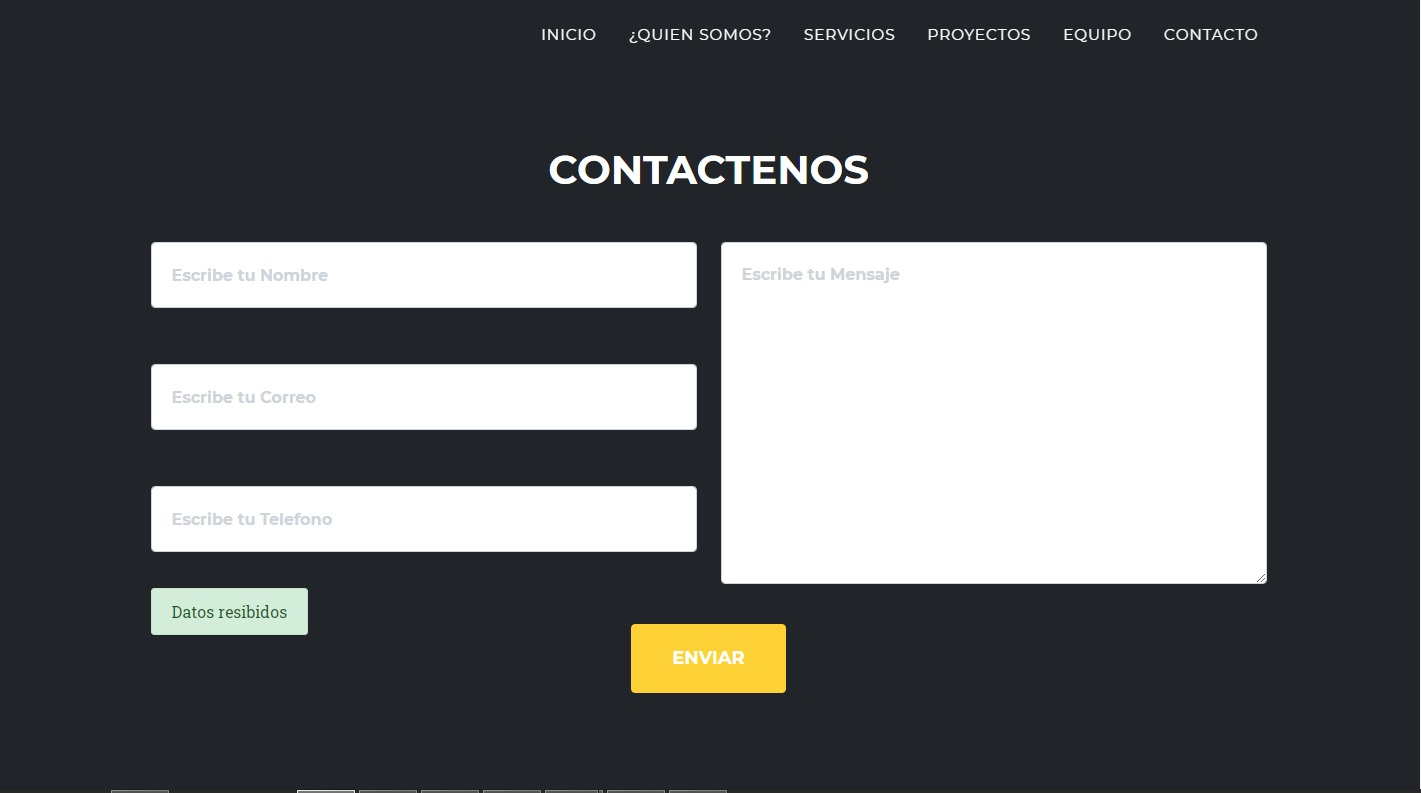
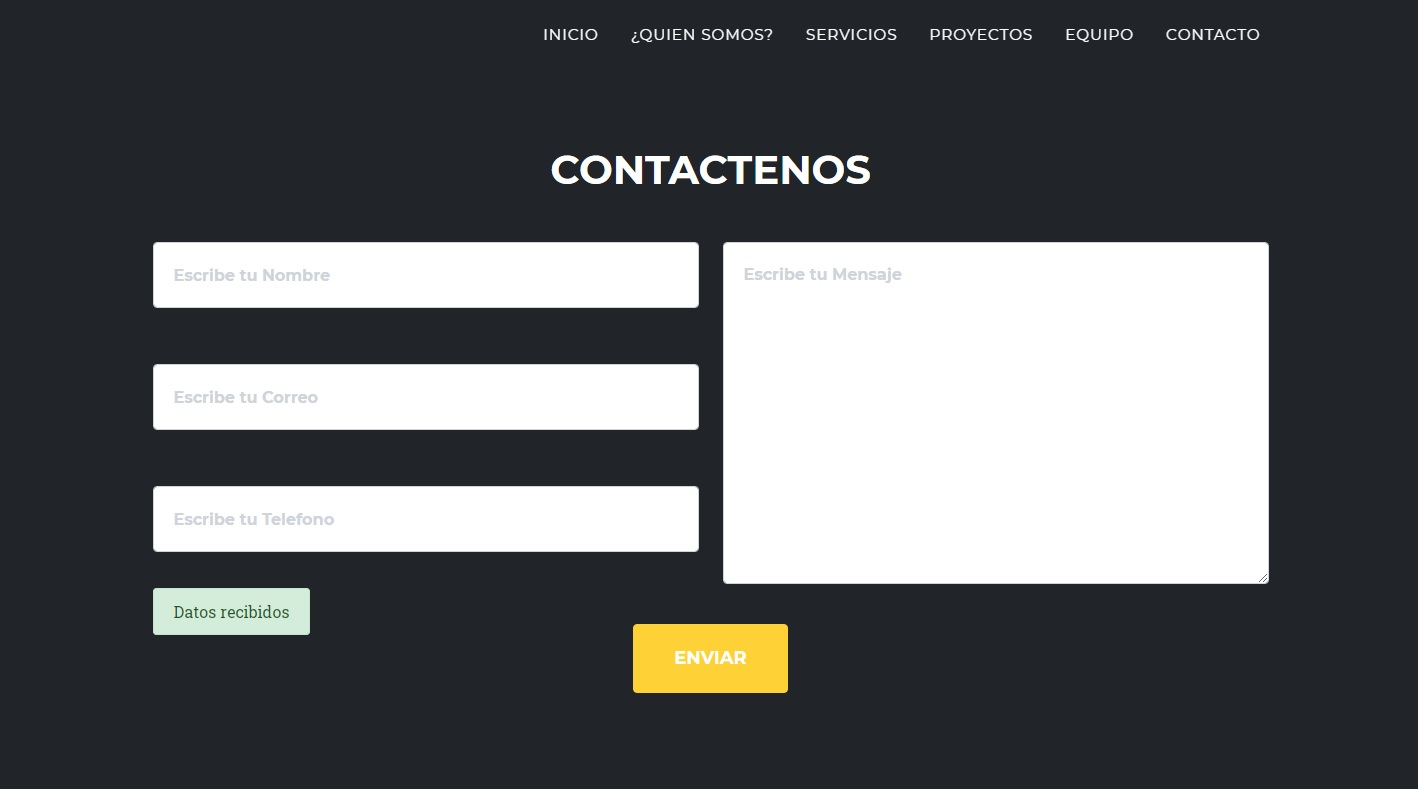
img

diff --git a/app/core/src/templates/contacto.htm b/app/core/src/templates/contacto.htm
@@ -102,7 +102,7 @@
             </div>
             <div class="">
                 {% if 'okay' in request.GET %}
-                    <span class="alert alert-success">Datos resibidos</span>
+                    <span class="alert alert-success">Datos recibidos</span>
                 {% endif %}
                 {% if "fallido" in request.GET %}
                     <span class="alert alert-danger mb-2">No se puede Enviar tu mensaje</span>
